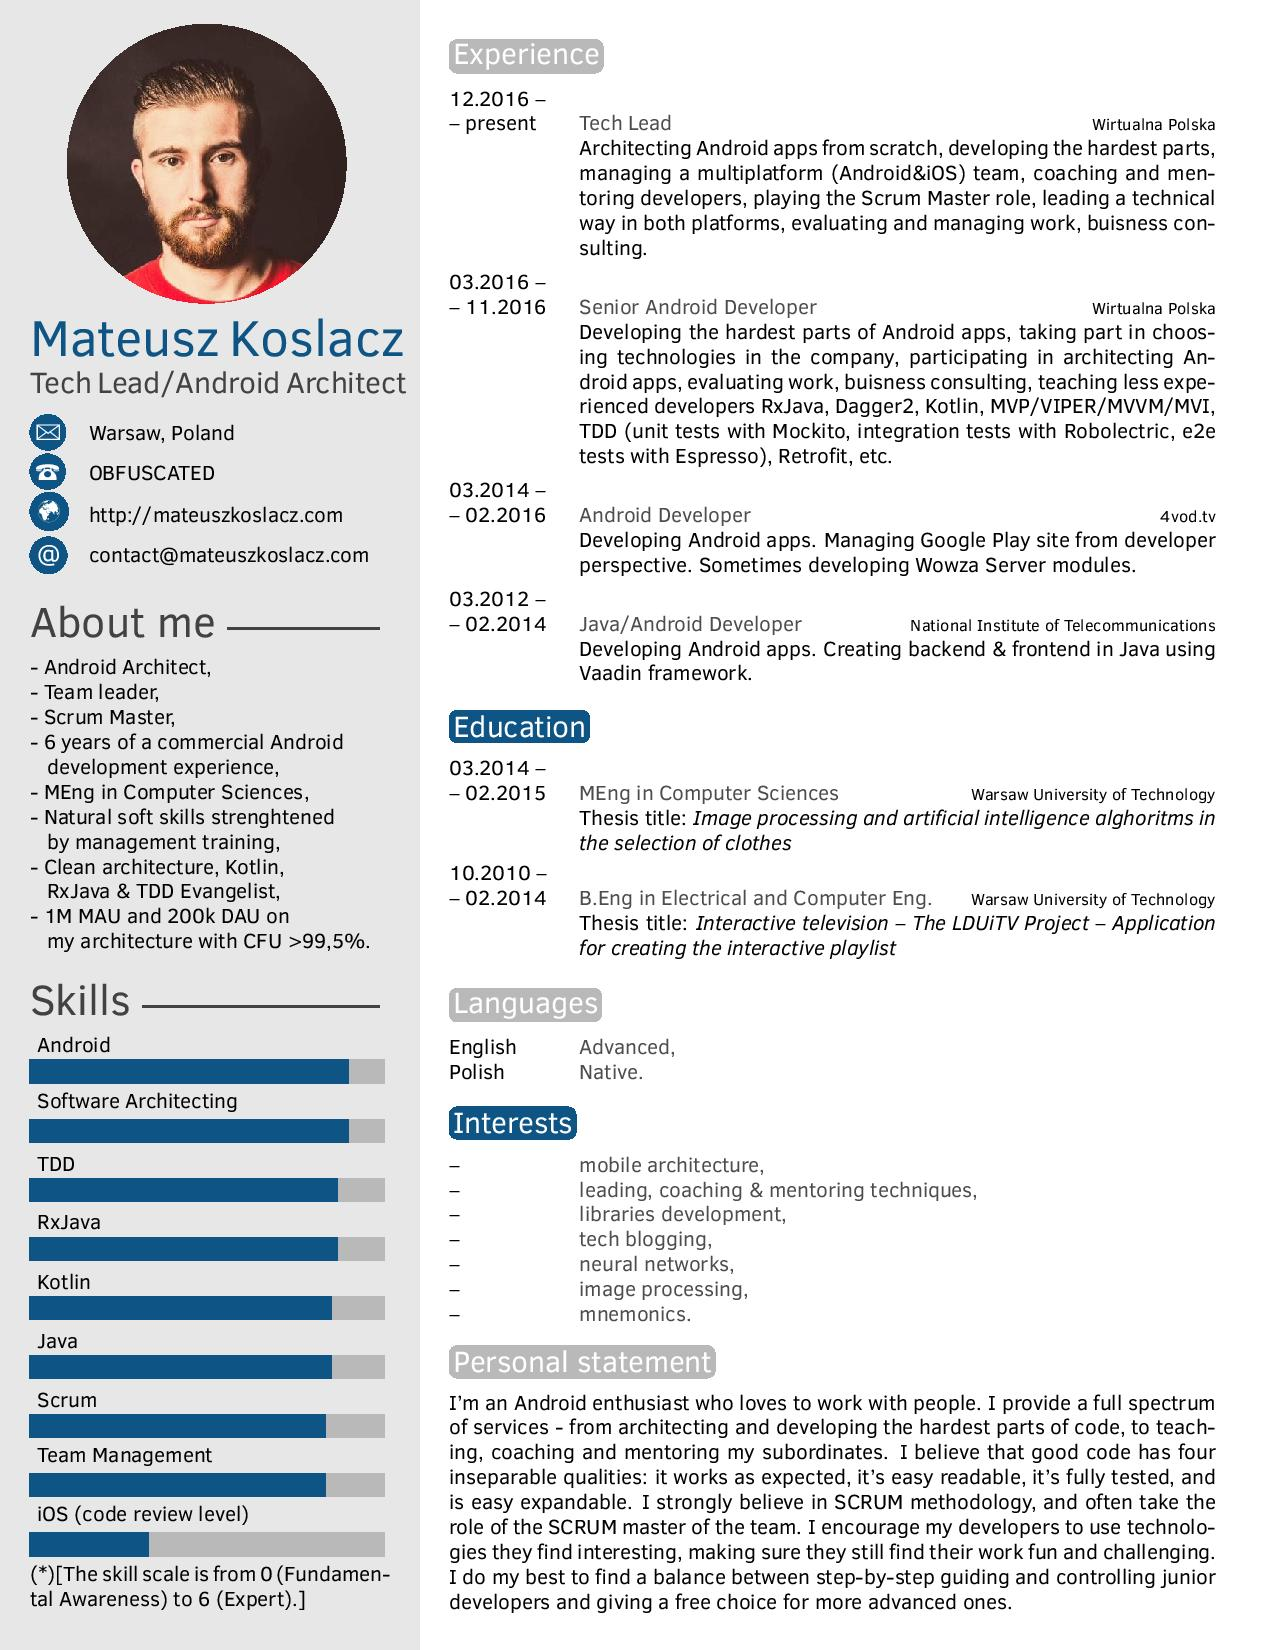
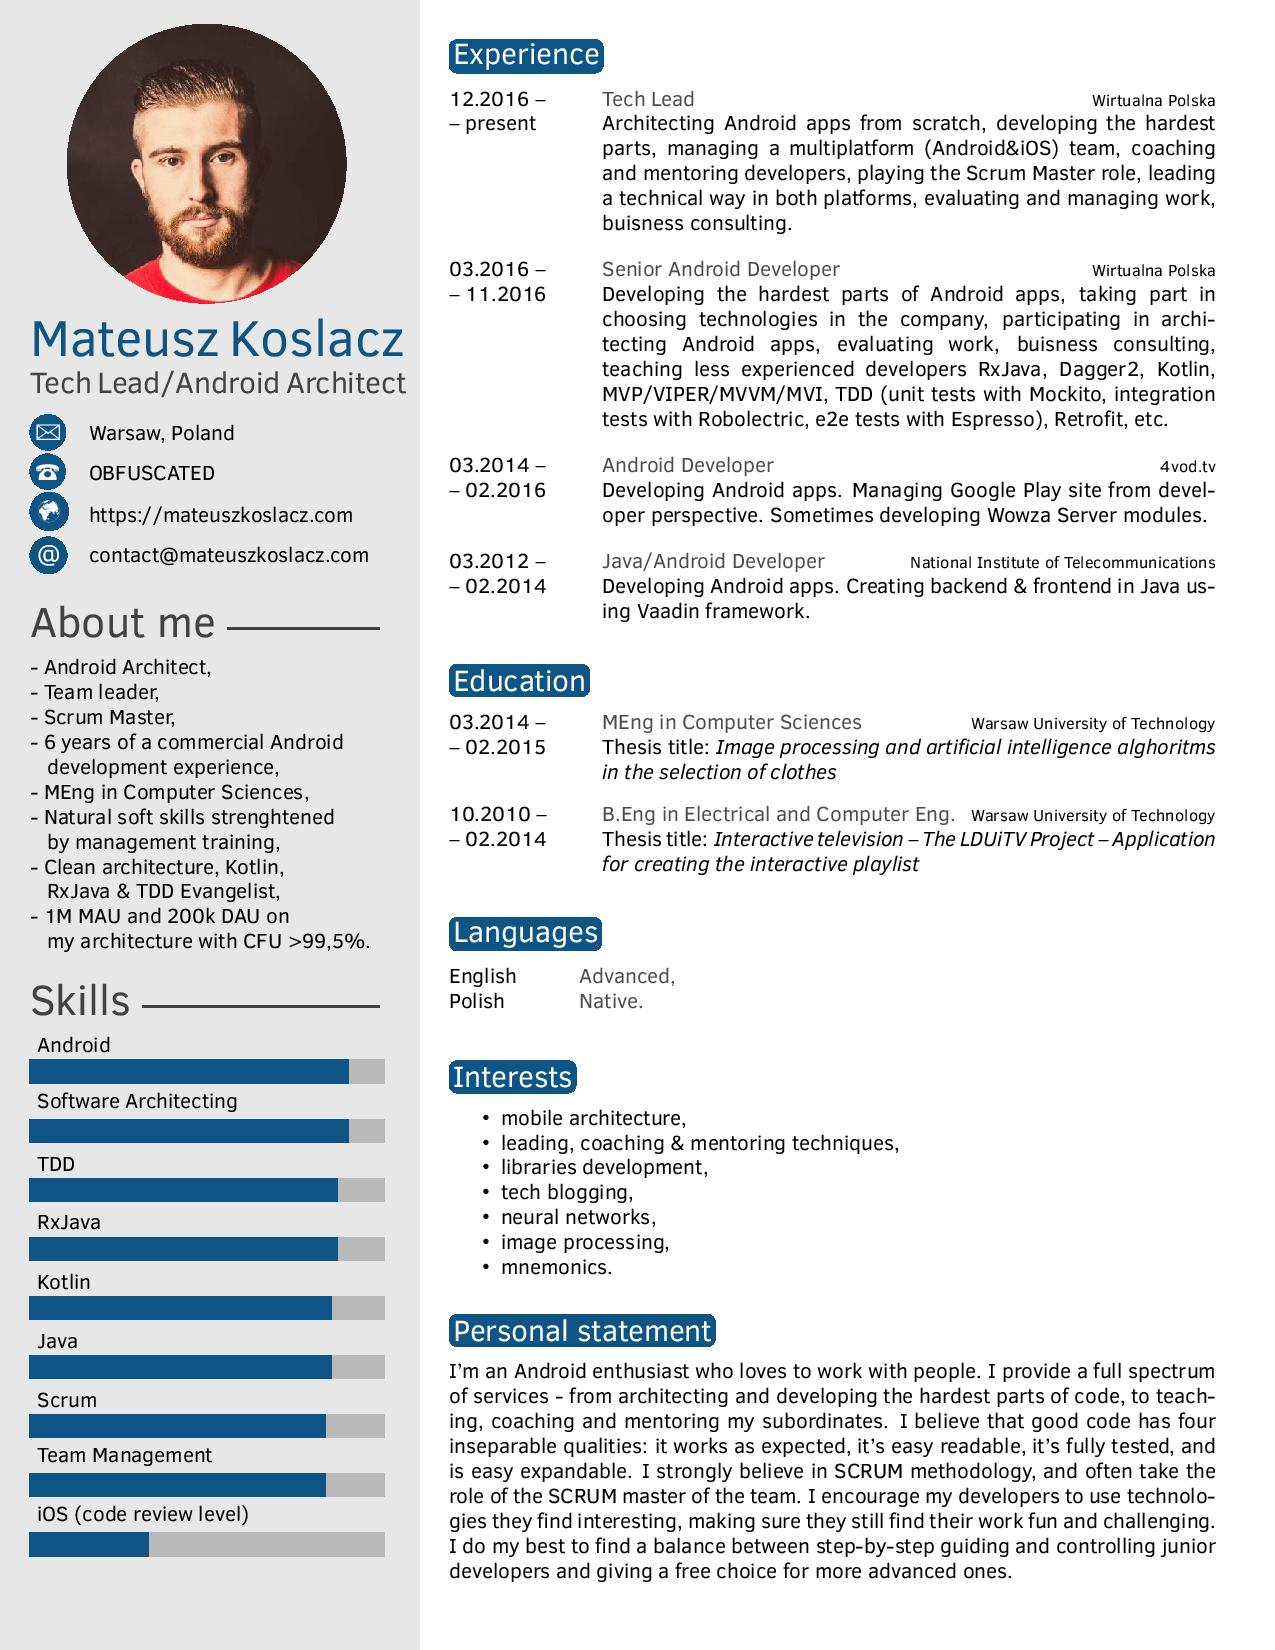
Improv: bullet list, dates spacing, change website prefix to https

diff --git a/mateusz_koslacz_cv.tex b/mateusz_koslacz_cv.tex
@@ -7,7 +7,7 @@
 % http://www.LaTeXTemplates.com
 %
 % Original author:
-% Carmine Spagnuolo (cspagnuolo@unisa.it) with major modifications by 
+% Carmine Spagnuolo (cspagnuolo@unisa.it) with major modifications by
 % Vel (vel@LaTeXTemplates.com)
 %
 % License:
@@ -36,7 +36,7 @@
 
 \cvaddress{Warsaw, Poland} % Short address/location, use \newline if more than 1 line is required
 \cvnumberphone{OBFUSCATED} % Phone number
-\cvsite{http://mateuszkoslacz.com} % Personal website
+\cvsite{https://mateuszkoslacz.com} % Personal website
 \cvmail{contact@mateuszkoslacz.com} % Email address
 \cvdate{} % Date of birth
 
@@ -123,6 +123,7 @@
 	\twentyitemshort{English}{Advanced,}
 	\twentyitemshort{Polish}{Native.}
 \end{twentyshort}
+\vspace{2\parsep}
 
 %----------------------------------------------------------------------------------------
 %	 INTERESTS
@@ -130,16 +131,18 @@
 
 \section{Interests}
 
-\begin{twentyshort} % Environment for a short list with no descriptions
-	\twentyitemshort{--}{mobile architecture,}
-	\twentyitemshort{--}{leading, coaching \& mentoring techniques,}
-	\twentyitemshort{--}{libraries development,}
-	\twentyitemshort{--}{tech blogging,}
-	\twentyitemshort{--}{neural networks,}
-    \twentyitemshort{--}{image processing,}
-    \twentyitemshort{--}{mnemonics.}
-	%\twentyitemshort{<dates>}{<title/description>}
-\end{twentyshort}
+\begin{itemize}
+\setlength\itemsep{-0.6em}
+
+\item mobile architecture,
+\item leading, coaching \& mentoring techniques,
+\item libraries development,
+\item tech blogging,
+\item neural networks,
+\item image processing,
+\item mnemonics.
+\end{itemize}
+\vspace{2\parsep}
 
 %----------------------------------------------------------------------------------------
 %	 PERSONAL STATEMENT
@@ -192,4 +195,4 @@ I'm an Android enthusiast who loves to work with people. I provide a full spectr
 
 %----------------------------------------------------------------------------------------
 
-\end{document} 
+\end{document}
